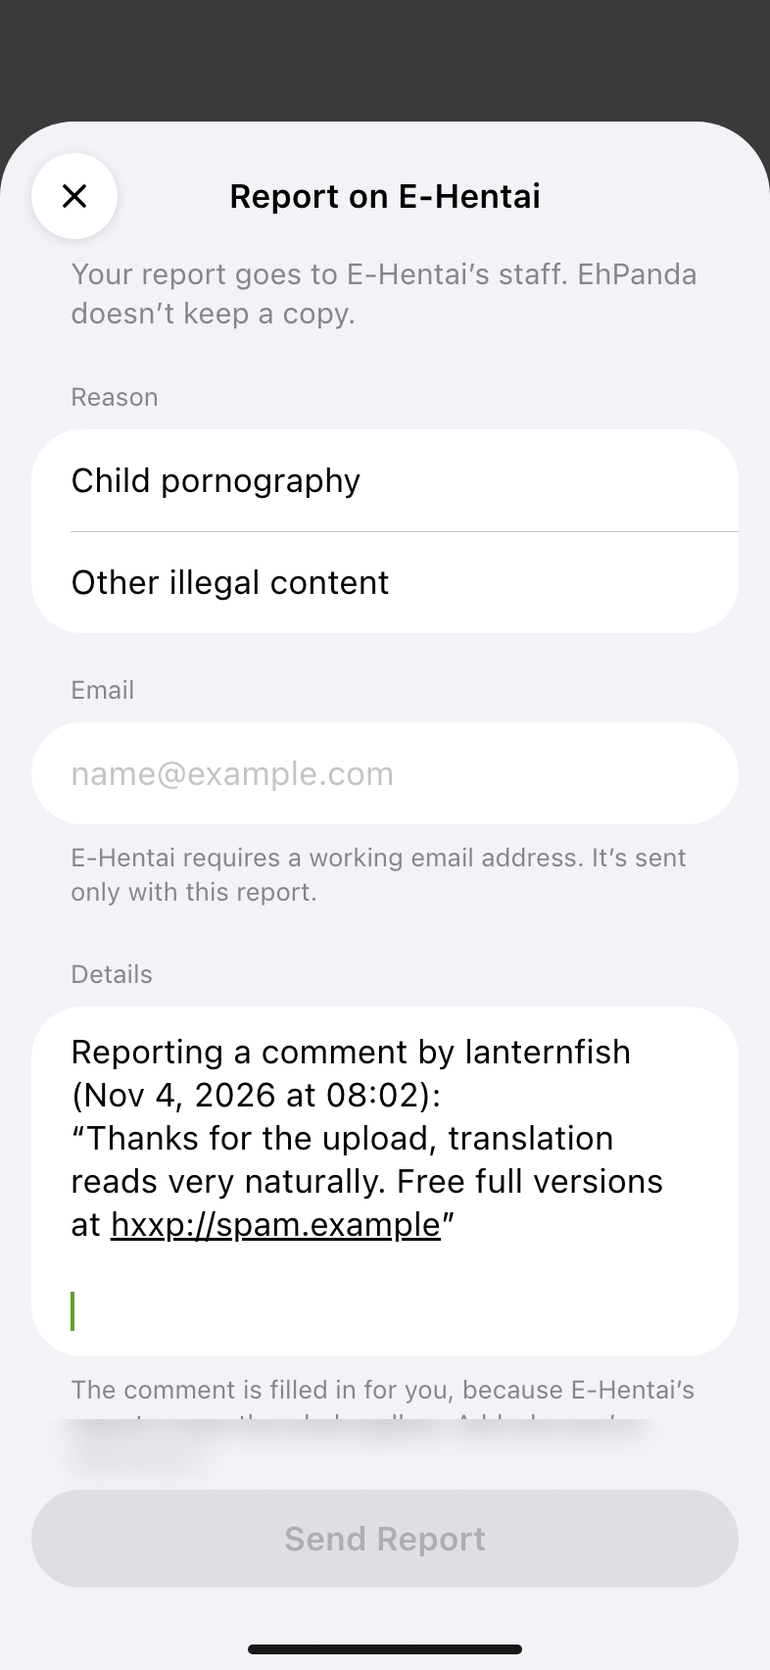
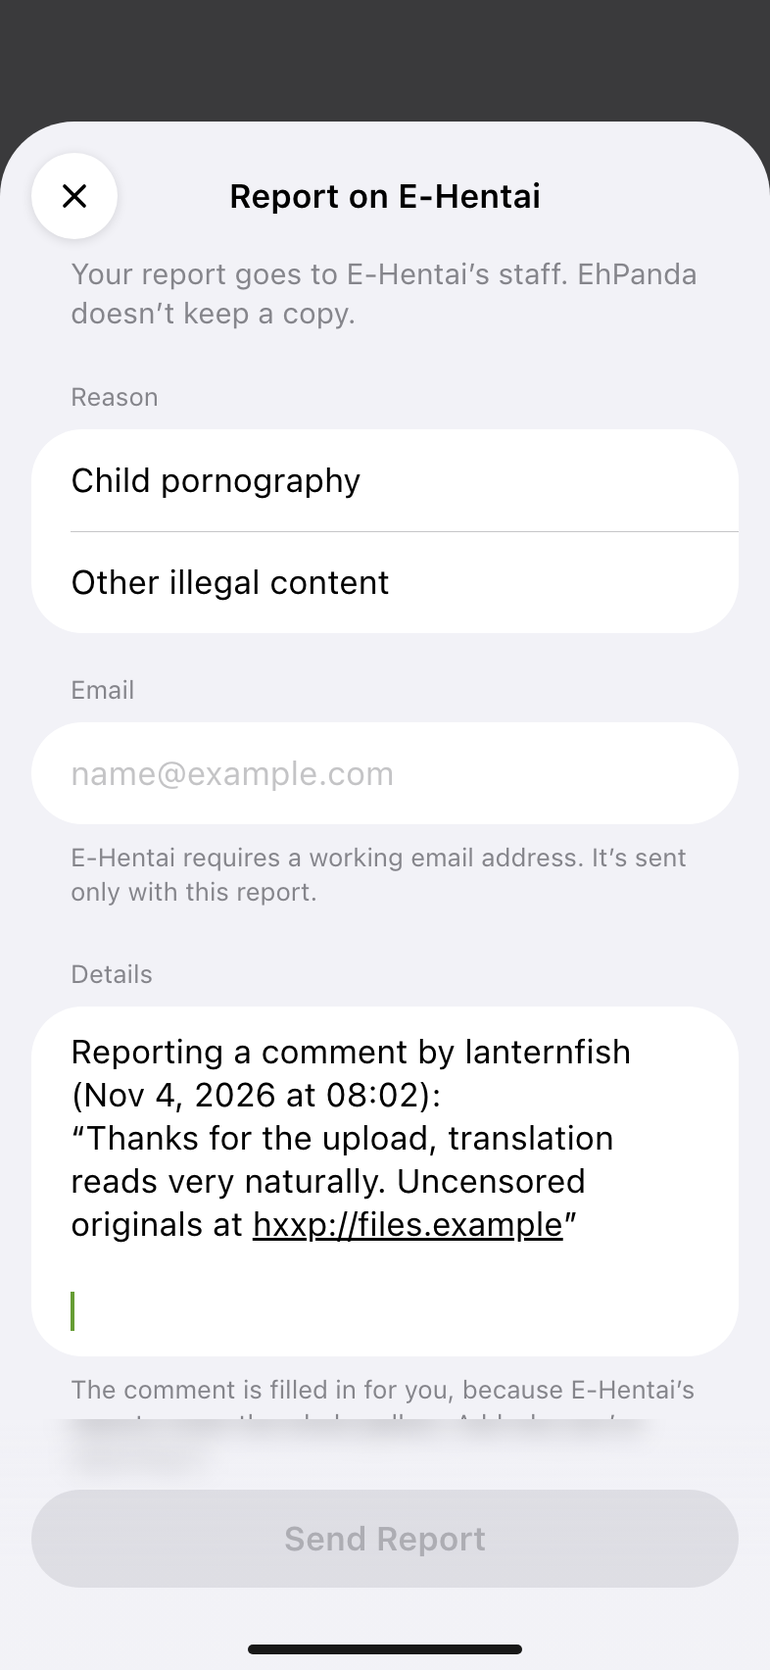
docs(18.1-04): complete the Report form view and UI tests plan
- 18.1-04-SUMMARY.md: eight task commits; DetailFeatureTests + UITestStubTests 181
  passed on both devices; the three UI classes pass on phone (45 + 2 skipped) and pad
  (46 + 1 skipped) with no retries; lint 0; both copy checks pass; the frame table for
  25-31, 33 and 34; deviations (slowLoad 6 s, holdSend 10 s, the frame-check view
  fixes, Command-Return in the iPad test, scroll to the linked comment at AX5)
- Mockups 25, 26, 27, 29 and 34: the refreshed frames with the illegal-content wording
- STATE: plan 4 of 5 done, metric and decision recorded, the frame 26 item resolved
- ROADMAP: 18.1 at 4/5, 18.1-04 checked
- UGC-18-01 is shared by all 18.1 plans, so REQUIREMENTS.md is unchanged

Changed region(s): [[0.0916, 0.6843, 0.855, 0.7465]]

diff --git a/.planning/phases/18.1-native-report-form/18.1-04-SUMMARY.md b/.planning/phases/18.1-native-report-form/18.1-04-SUMMARY.md
@@ -1,0 +1,236 @@
+---
+phase: 18.1-native-report-form
+plan: "04"
+subsystem: moderation-report-form-ui
+tags: [report, swiftui, sheet, liquid-glass, ui-tests, stubs, moderation]
+
+requires:
+  - "18.1-01 (ReportForm, the report URLs, the one-attempt send request)"
+  - "18.1-02 (the 22 report.* symbols)"
+  - "18.1-03 (ReportFormFeature, ReportFormClient, ReportPrefill, the .reportForm destinations)"
+provides:
+  - "`ReportFormView`: the C-13 sheet in its loading, ready, sending, sent, failed and unavailable states, presented from Comments and Detail"
+  - "`EHPANDA_UITEST_REPORT_SCENARIO` (ready, slowLoad, holdSend, failSend, unavailable), read only in DEBUG stubbed launches, with the ReportOther, ReportUnavailable and ReportSentStub fixtures"
+  - "`ReportFormUITests`: one UI test per C-13 state (frames 25–31, 33, 34), plus the strip entry and an accessibility audit"
+  - "`comment.report.confirm_title` / `_body` retired from the catalog and listed as retired in `18-copy-check.py`"
+affects: [18.1-05, 19]
+
+actuals:
+  tasks: 3
+  commits: 8
+
+tech-stack:
+  added: []
+  patterns:
+    - "Presenting the Report form sends its `.task` action from the presenting reducer, so the load starts without a view lifecycle hook and reducer tests see it"
+    - "A stub scenario picked by one launch key, read only when the network is stubbed and only in DEBUG, routes report queries before the gallery branch"
+    - "UI tests read a request log to prove what was posted (one POST, a second on Retry, none on an invalid email or ⌘↩ while not ready)"
+
+key-files:
+  created:
+    - AppPackage/Sources/DetailFeature/Moderation/ReportFormView.swift
+    - EhPandaUITests/ReportFormUITests.swift
+    - EhPandaUITests/Fixtures/ReportOther.html
+    - EhPandaUITests/Fixtures/ReportUnavailable.html
+    - EhPandaUITests/Fixtures/ReportSentStub.html
+  modified:
+    - AppPackage/Sources/DetailFeature/Comments/CommentsReducer.swift
+    - AppPackage/Sources/DetailFeature/Comments/CommentsView.swift
+    - AppPackage/Sources/DetailFeature/DetailReducer.swift
+    - AppPackage/Sources/DetailFeature/DetailReducer+Actions.swift
+    - AppPackage/Sources/DetailFeature/DetailView.swift
+    - AppPackage/Sources/DetailFeature/Resources/Localizable.xcstrings
+    - .planning/phases/18-in-app-3-0-readiness-age-wall-analytics-choice-comment-moder/18-copy-check.py
+    - AppPackage/Sources/AppFeature/UITestSupport/UITestStubURLProtocol.swift
+    - AppPackage/Sources/AppFeature/UITestSupport/UITestAutomation.swift
+    - AppPackage/Tests/AppFeatureTests/UITestStubTests.swift
+    - AppPackage/Tests/DetailFeatureTests/CommentModerationReducerTests.swift
+    - AppPackage/Tests/DetailFeatureTests/CommentsReducerTests.swift
+    - EhPandaUITests/Support/UITestConstants.swift
+    - EhPandaUITests/CommentModerationUITests.swift
+    - EhPandaUITests/AccessibilityAuditUITests.swift
+
+key-decisions:
+  - "The sheet is a `NavigationStack` with only the leading `Button(role: .close)` and the inline `comment.report` title. `.interactiveDismissDisabled` follows `isDismissLocked`. On iPhone it uses the large detent, on iPad the system form sheet"
+  - "The pinned bar is built like the first-launch gate's: `.safeAreaBar(edge: .bottom)` holding one `.glassProminent` `.controlSize(.large)` button, with no background, material or divider (grep 0). The form and the centred states set `.scrollEdgeEffectStyle(.soft, for: [.top, .bottom])`, following the app's scroll-edge policy, with the bottom edge under the bar"
+  - "The button's label follows the phase: Send Report, the spinner plus Sending…, Done, or Open Report Page. Labels swap with no animation. `.keyboardShortcut(.return, modifiers: .command)` is on the button, so ⌘↩ acts only when it is enabled"
+  - "The failed alert is built locally from the reducer's alert state, so Retry can be the default button (C-13 Failed) while the reducer keeps the Retry, Open Report Page, Cancel order"
+  - "Open Report Page presents the existing `ReportPageSheet` over the kept form (P-7). Both screens' `reportPage(URL)` destinations and their sheets are gone"
+  - "The slowLoad stub holds the form's GET for 6 s, holdSend holds the POST, failSend answers the POST with an error page, unavailable serves a page without `#reportform`, and ready serves ReportOther and then the ReportSentStub stand-in after the POST. No stub reaches e-hentai.org or exhentai.org"
+
+patterns-established:
+  - "18.1-05 runs the phase gate on both devices and in Release, then the agent-run Proxyman live check"
+
+requirements-completed: [UGC-18-01]
+
+coverage:
+  - id: T1
+    description: "ReportFormView, presentation and the retired keys"
+    verification:
+      - kind: automated
+        ref: "DetailFeatureTests + UITestStubTests: 181 passed (151 + 30) on $PHONE and on $PAD at 915a24551; UITestStubTests 30 passed on $PAD at 89afb95fe"
+        status: pass
+      - kind: script
+        ref: "soft scroll-edge count 2; .background|Material|Divider( 0; retired confirm keys in the catalog 0; 18-copy-check --self-test 22/22, 18-copy-check exit 0, 18.1-copy-check exit 0; SwiftLint 0.65.1 --strict 0 violations"
+        status: pass
+    human_judgment: false
+  - id: T2
+    description: "UI-test stubs for the Report form"
+    verification:
+      - kind: automated
+        ref: "UITestStubTests 30 passed on both devices (inside the 181), and again on $PAD after the holdSend change"
+        status: pass
+    human_judgment: false
+  - id: T3
+    description: "A UI test per C-13 state, the strip entry and the audit, compared against the frames"
+    verification:
+      - kind: automated
+        ref: "ReportFormUITests + CommentModerationUITests + AccessibilityAuditUITests at a1afdc81c: $PHONE 47 tests, 45 passed, 2 skipped (iPad-only); $PAD 47 tests, 46 passed, 1 skipped (iPhone-only AX5); no retries"
+        status: pass
+      - kind: script
+        ref: "galleryOrigin|copyright|excupd|dmca|report_reason_revert grep 0; SwiftLint 0 violations in 152 files"
+        status: pass
+      - kind: manual
+        ref: "frame comparison table below (screenshots exported from the xcresults)"
+        status: pass
+    human_judgment: false
+
+duration: several sessions (2026-11-06 02:26Z to 2026-11-06 19:25Z)
+completed: 2026-11-06
+status: complete
+---
+# Phase 18.1 Plan 04: Report form view and UI tests Summary
+
+**Report on a comment now opens EhPanda's own Report form, drawn per UI-SPEC C-13 on iPhone and iPad. It shows two
+illegal-content reasons, an email that is never stored, the English prefill and the pinned Send Report button, and it
+falls back to the site's page. Each of the nine C-13 states has a UI test on stubbed network, and the screenshots were
+checked against frames 25–31, 33 and 34.**
+
+## Accomplishments
+
+- **The sheet (Task 1, `a76819797`, fixed in `a6bf20b40`):**
+  - `ReportFormView` follows C-13 section by section: intro, Reason (two rows with a trailing accent checkmark and
+    `.isSelected`), Email with its keyboard modifiers and the red invalid footer with an announcement, Details with
+    `.lineLimit(5...)` and the footers that depend on the reason.
+  - Loading appears after 0.3 s. Unavailable is a `ContentUnavailableView` with no actions inside it. Sent shows the
+    64pt checkmark with a bounce (none under Reduce Motion), a success haptic and VoiceOver focus on the title, with
+    no Close or title. Failed is an alert over the kept form.
+  - Accessibility identifiers: `report_form`, `report_reason_<raw>`, `report_email`, `report_details`,
+    `report_primary_button`, `report_loading`, `report_unavailable`, `report_sent`, `report_illegal_warning`.
+  - CommentsView and DetailView present `.reportForm` as a sheet. The `reportPage(URL)` cases and sheets are gone.
+    The form presents `ReportPageSheet` itself.
+  - Catalog: `comment.report.confirm_title` and `_body` are removed. `18-copy-check.py` lists them as retired: a key
+    that is absent passes, a key that is present is a finding. A self-test case covers this (22/22 cases).
+- **Stubs (Task 2, `b031af23b`, fixed in `eac764df7` and `89afb95fe`):** `EHPANDA_UITEST_REPORT_SCENARIO` is read only in DEBUG and only
+  when the network is stubbed. Any other launch, or an unknown value, gets `ready`. Report queries are routed before
+  the `/g/` branch (F-2). Three fixtures were added, and `UITestStubTests` covers the routing for each scenario.
+- **UI tests (Task 3, `25c6f1ad8`, fixed in `915a24551`, `89afb95fe` and `a1afdc81c`):** `ReportFormUITests` has nine tests, one per C-13 state.
+  Each one launches stubbed with a request log and attaches screenshots.
+  - `CommentModerationUITests` now expects the form to open directly from the comments list and from a Detail strip
+    card, with no alert.
+  - `AccessibilityAuditUITests.testReportFormAudit` audits the ready form.
+
+## Tests
+
+| Run | $PHONE | $PAD |
+|-----|--------|------|
+| FeatureTests: `DetailFeatureTests` + `AppFeatureTests/UITestStubTests` | 181 passed, 0 failed | 181 passed, 0 failed |
+| UITests: `ReportFormUITests` + `CommentModerationUITests` + `AccessibilityAuditUITests` (light), final at `a1afdc81c` | 47: 45 passed, 2 skipped (`testThePadFormSheetAndCommandReturn`, `testPadSettingAndDetailModalsAudit`, iPad only), no retries | 47: 46 passed, 1 skipped (`testTheLargestTextSizeKeepsTheButtonInReach`, iPhone only), no retries |
+| UITests, dark appearance: ready, typing, failed and unavailable (frames 26, 29, 30), at `915a24551` | 4 passed | — |
+| UITests, whole plan, at `915a24551` | 131: 110 passed, 21 skipped, 0 failed | 131: 112 passed, 18 skipped, 1 failed (`testSendingLocksTheSheet`, deviation 7; passes at `89afb95fe`) |
+| `UITestStubTests` after the holdSend change (`89afb95fe`) | — | 30 passed |
+| SwiftLint 0.65.1 `--strict --no-cache`, DetailFeature, AppFeature, their tests and EhPandaUITests | 0 violations in 152 files | |
+| Copy checks | `18-copy-check.py --self-test` 22/22; `18-copy-check.py` 36 keys × 6 locales, 60 retired texts absent; `18.1-copy-check.py` 22 keys × 6 locales | |
+| Plan greps | soft scroll-edge 2; bar background/material/divider 0; retired confirm keys 0; gallery/copyright 0 | |
+
+The first pad run of the three classes failed `testThePadFormSheetAndCommandReturn`, because ⌘↩ never reached the
+button (see deviation 3). After `915a24551` the pad run passed. The whole-plan runs found two timing failures in this
+plan's tests: the pad sending test (deviation 7) and, in a later phone class run, the AX5 test (deviation 8). Both
+are fixed, and the three classes then passed on both devices with no retries. The whole plan was not run again
+after those two test-only fixes. 18.1-05's gate runs it on both devices. The known pad flake
+(`ReaderRebuildUITests`) did not fail. The dark run switched the phone simulator to dark and
+then back to light. No simulator was erased.
+
+No request was made to e-hentai.org or exhentai.org. Every UI test launches with the stubbed network, and the request
+log shows exactly one POST per send (two after Retry), to `/g/3103480/0000000000/`.
+
+## Frame Comparison (UI-SPEC C-13)
+
+The screenshots were exported from the xcresults, phone `FFE7E686` and pad `B470DB46`. Differences that apply to every
+frame:
+
+- The fixture data is the stub's: a Chinese comment, the UTC date from `ReportPrefill`, and `tester@example.com`.
+- The status bar is the simulator's.
+- The section headers (Reason, Email, Details) use the OS 27 system header style, which is larger and semibold. The
+  frames draw small regular headers. C-13 names the system section header, not a font, and the text wins.
+- Apostrophes are straight, as in the approved catalog strings that both copy checks verify. The frames draw curly
+  ones.
+
+| Frame | State | Screenshot | Result | Note |
+|-------|-------|------------|--------|------|
+| 25 | Ready, light | `report-25-ready` (phone light and dark; pad) | match | Close only, inline "Report on E-Hentai", two unpicked reasons, empty email, the prefill, dimmed Send Report on the bar with no background |
+| 26 | Typing, dark | `report-26-typing`, `report-26-invalid-email` (phone dark) | match | Other illegal content picked with an accent checkmark and rows in primary text (fixed in `a6bf20b40`). Shows the warning footer, the Details text "The linked page hosts illegal content." and the illegal-content help above the comment footer. The invalid shot shows the red footer with `exclamationmark.circle`. The frame is scrolled with the keyboard up; the test shot is at the top |
+| 27 | Sending, light | `report-27-sending` (phone, pad) | match | Spinner at regular size on the label's line plus "Sending…" (fixed in `a6bf20b40`). The form and Close are dimmed and a swipe keeps the sheet |
+| 28 | Sent, light | `report-28-sent` (phone, pad) | match | 64pt accent checkmark, "Report Sent", body, Done. No Close or title |
+| 29 | Failed, dark | `report-29-failed`, `report-29-site-page` (phone dark) | match | Alert over the kept form: Retry (default, fixed in `a6bf20b40`), Open Report Page, Cancel. Send Report stays live under it. The site page opens over the form |
+| 30 | Unavailable, dark | `report-30-unavailable` (phone dark) | match | Triangle, title and body with no actions inside. The bar reads Open Report Page |
+| 31 | Loading, light | `report-31-loading` (phone, pad) | match | Centred spinner over "Loading the report form…", Close, dimmed Send Report |
+| 33 | Largest text (AX5), iPhone | `report-33-ax5` (phone) | match | Intro, Reason and rows wrap. The button grows (≥ 50pt) and stays hittable. Close keeps the system size. In the test no reason is picked, so the button is dimmed; the frame draws it enabled. That is a state difference, not a layout one |
+| 34 | iPad form sheet, light | `report-34-ipad-ready`, `report-34-ipad` (pad) | match | Form sheet, not full screen, with the bar at the sheet's bottom. ⌘↩ sends when the form is ready (one POST) and sends nothing before |
+
+Frame 32 is withdrawn and has no test. The refreshed frames 25, 26, 27, 29 and 34 were found uncommitted in the
+working tree with the illegal-content Details wording. They are committed with this summary. With them, the earlier
+open item ("frame 26 shows a leftover 'Spam:'") no longer applies.
+
+## Deviations from Plan
+
+1. **[Rule 1] slowLoad holds for 6 s, not 2 s (`eac764df7`).** The spinner appears after 0.3 s, but the test can read
+   it only once the sheet is up, about 3 s after the comment's menu. With a 2 s hold the form finished loading first.
+2. **[Rules 1/2] View fixes from the frame check (`a6bf20b40`).**
+   - Reason rows were drawn in the tint; they now use primary text.
+   - The intro was faded twice inside the header.
+   - Retry was not the alert's default button.
+   - The sending spinner was small.
+   - The top scroll edge was missing.
+   All were fixed in the view. None is recorded as an accepted difference.
+3. **[Rule 1] ⌘↩ in the iPad test (`915a24551`).** On the iPad simulator, `typeKey(.return, modifierFlags: .command)`
+   never reached the button's shortcut, while `"\n"` with Command did. Probes showed that ⌘A and plain keys arrive.
+   Only the test changed; the view's `.keyboardShortcut(.return, modifiers: .command)` stays.
+4. **Test Details text.** The typed Details line is "The linked page hosts illegal content.", matching the refreshed
+   frames' illegal-content wording rather than a spam reason, which C-13 excludes.
+5. **[Rule 3] Files outside the plan's list.**
+   - `DetailReducer+Actions.swift`: Detail's present-the-form branch now sends the form's `.task`, as Comments does.
+   - `CommentModerationReducerTests.swift` and `CommentsReducerTests.swift`: the existing destination tests receive
+     that load.
+   - `EhPandaUITests/Support/UITestConstants.swift` (listed) holds the scenario key.
+6. **The refreshed mockups 25, 26, 27, 29 and 34** are in the docs commit. See the frame comparison.
+7. **[Rule 1] holdSend holds for 10 s, not 3 s (`89afb95fe`).** In the full pad run, `testSendingLocksTheSheet` failed
+   with "A swipe down closed the sheet". The activity log showed the swipe 3.7 s after the tap. The 3 s hold had
+   already ended, so the sheet was in Sent, where a swipe correctly dismisses it. The test now waits up to 20 s for
+   Sent.
+8. **[Rule 1] The UI tests scroll to the linked comment when the link stops short (`a1afdc81c`).** In one phone class
+   run, `testTheLargestTextSizeKeepsTheButtonInReach` failed all three attempts with "EhPanda did not present
+   comment_cell_6894060". The hierarchy showed the comments list at its first three comments: at AX5 the link's
+   `scrollTo` had not reached the comment. Run alone, the test passed. `openReportForm` now waits 15 s as before,
+   then swipes the list up (at most 8 times) until the row exists. The app's link scroll is Phase 18 code and is
+   unchanged. It is recorded below as an open item.
+
+## Open Items (non-blocking, for the lead)
+
+- **A comment link at AX5 sometimes stops short of its comment.** `CommentsView`'s
+  `proxy.scrollTo(scrollCommentID, anchor: .top)` left the list at the top in one run (three attempts in a row) and
+  worked in four others. This was seen only at the largest text size, where rows reach 1,000pt. It is not part of
+  this plan; the UI tests now scroll as a reader would.
+
+## Decisions
+
+See `key-decisions` above.
+
+## Self-Check
+
+- Commits `a76819797`, `b031af23b`, `eac764df7`, `a6bf20b40`, `25c6f1ad8`, `915a24551`, `89afb95fe` and `a1afdc81c`
+  are signed (`G`) and dated `+08:00` twice.
+- `report.reason.choose` remains approved but unused (C-13 has no picker). This is unchanged and carried in STATE.
+- UGC-18-01 is shared by all five 18.1 plans, so REQUIREMENTS.md is unchanged.
+
+Ready for 18.1-05.

diff --git a/.planning/STATE.md b/.planning/STATE.md
@@ -4,16 +4,16 @@ milestone: v3.0.0
 current_phase: "18.1"
 current_phase_name: Native report form
 status: executing
-stopped_at: Completed 18.1-03-PLAN.md
-last_updated: "2026-11-06T02:24:00.000Z"
+stopped_at: Completed 18.1-04-PLAN.md
+last_updated: "2026-11-06T19:25:00.000Z"
 last_activity: 2026-11-06
-last_activity_desc: Plan 18.1-03 complete (ReportFormFeature, its client and prefill; Report opens the form from both screens)
-state_head: f7a389135c08559adbc1c1c5164a8add1610aa65
+last_activity_desc: Plan 18.1-04 complete (the Report form sheet per C-13, its UI-test stubs and a UI test per state on iPhone and iPad)
+state_head: a1afdc81c0f376cbc0a3a3ff8efb9673b798f192
 progress:
   total_phases: 21
   completed_phases: 17
   total_plans: 304
-  completed_plans: 302
+  completed_plans: 303
   percent: 81
 milestone_name: Dependency Reduction & Modernization
 source_head: 891103afa
@@ -36,9 +36,9 @@ mockups (01–04, 16–18 and 20 re-rendered; 25–31, 33 and 34 added; 32 withd
 - **Plans:** Wave 1: 18.1-01 (parser, report URL, requests), 18.1-02 (23 strings, copy check). Wave 2: 18.1-03
   (reducer, routing). Wave 3: 18.1-04 (view, stubs, a UI test per C-13 state). Wave 4: 18.1-05 (gate, then the
   agent-run Proxyman live check, the phase's only checkpoint).
-- **Open, non-blocking:** what the site returns after a real report (Research OQ-1, default DD-03); frame 26 shows a
-  leftover "Spam:" in Details (for Colo through the lead); `report.reason.choose` is approved but unused by C-13 (for
-  the lead).
+- **Open, non-blocking:** what the site returns after a real report (Research OQ-1, default DD-03); frame 26 showed a
+  leftover "Spam:" in Details (resolved: the refreshed frames, committed with 18.1-04, use the illegal-content
+  wording); `report.reason.choose` is approved but unused by C-13 (for the lead).
 
 Next: `/gsd-execute-phase 18.1`.
 
@@ -1031,6 +1031,7 @@ Phase 18 verification passed 10/10 on 2026-11-05 at `a1f96cb88` (tested source `
 | Phase 18.1 P01 | 20 min | 2 tasks | 11 files |
 | Phase 18.1 P02 | 25 min | 1 tasks | 3 files |
 | Phase 18.1 P03 | 25 min | 2 tasks | 11 files |
+| Phase 18.1 P04 | several sessions | 3 tasks | 20 files |
 
 ## Accumulated Context
 
@@ -1607,6 +1608,7 @@ Recent decisions affecting current work:
 - [Phase 18.1]: 18.1-01: the report POST is sent once (attempts: 1) to the gallery's ?report=<type> URL, never the page's form action; a reply is sent only when it is not a site error page and no longer shows #reportform. The form GET keeps the default retries. — Research F-1 and DD-02/DD-03: a retried POST can file duplicate reports, a page's action could point elsewhere, and an error page has no #reportform.
 - [Phase 18.1]: 18.1-02: 22 report.* keys ship in DetailFeature's catalog in six languages, verbatim from 18.1-COPY-REPORT-FORM.md; report.reason.choose does not ship (lead, msgs 1980/1983: C-13 has no picker). 18.1-copy-check.py fails on a missing, reworded, empty or unapproved report.* key and on any of the six gallery-only keys or report.reason.choose. — 18.1-04 uses the generated symbols and retires comment.report.confirm_title/_body.
 - [Phase 18.1]: 18.1-03: Report on a foreign comment sends CommentModerationFeature.delegate(.openReportForm(ReportFormFeature.State)) and Comments/Detail present destination .reportForm; the confirm alert is gone. ReportFormFeature.State has a failable init (nil without a report target); phases loading/ready/sending/sent/unavailable, a failed send returns to ready with Retry / Open Report Page / Cancel; canSend needs a reason, a trimmed non-empty email and Details beyond the prefill; DD-05 email check on Send; isDismissLocked while sending or edited (not once sent); the email lives only in state. — 18.1-04 renders the form, presents .reportForm in both views, removes reportPage(URL) and the retired confirm keys, and updates CommentModerationUITests (its report case expects the old alert until then).
+- [Phase 18.1]: 18.1-04: ReportFormView renders every C-13 state in a NavigationStack sheet with only the leading Close, the inline "Report on {site}" title and a pinned .safeAreaBar .glassProminent button with no background (soft scroll edge top and bottom). Comments and Detail present .reportForm, and presenting sends the form's .task from the reducer. The failed alert is built in the view so Retry is the default, in the reducer's Retry / Open Report Page / Cancel order. Open Report Page presents ReportPageSheet over the kept form. reportPage(URL) and comment.report.confirm_title/_body are gone, and 18-copy-check.py lists the two keys as retired. EHPANDA_UITEST_REPORT_SCENARIO (ready, slowLoad 6 s, holdSend 10 s, failSend, unavailable) is DEBUG and stubbed-launch only. ReportFormUITests has one test per state (frames 25–31, 33, 34) and passes on both devices. — 18.1-05 runs the gate (whole UITests plan on both devices, Release scan for EHPANDA_), then the Proxyman live check. Open: at AX5 a comment link's scrollTo sometimes stops short of the comment (Phase 18 code; the tests now scroll to it).
 
 ### Phase 16 transition decisions (2026-09-23)
 
@@ -1723,8 +1725,8 @@ Items acknowledged and carried forward from previous milestone close:
 
 ## Session Continuity
 
-Last session: 2026-11-06T02:24:00.000Z
-Stopped at: Completed 18.1-03-PLAN.md
+Last session: 2026-11-06T19:25:00.000Z
+Stopped at: Completed 18.1-04-PLAN.md
 Resume file: None
 
 Earlier stop (2026-10-13T10:50:00Z, historical): 17-06 revision re-shot, 16/16 captured (`.capture/17-06-t-native-*`); superseded by the owner's 2026-11-02 approval of the 192-image website set.

diff --git a/.planning/ROADMAP.md b/.planning/ROADMAP.md
@@ -714,7 +714,7 @@ Phases execute in numeric order: 1 → 2 → 3 → 4 → 5 → 6 → 7 → 8 →
 | 16. Dynamic Type Accessibility | 26/26 | Complete    | 2026-09-23 |
 | 17. Screenshot Automation, Visual Regression & OS 27 Modernization | 13/13 | Complete    | 2026-11-05 |
 | 18. In-App 3.0 Readiness: Age Wall, Analytics Choice, Comment Moderation & Reader Rework | 12/12 | Complete    | 2026-11-06 |
-| 18.1. Native report form (INSERTED) | 3/5 | In Progress |  |
+| 18.1. Native report form (INSERTED) | 4/5 | In Progress |  |
 | 19. Visual Regression & Daily Live-Parsing Check | 0/TBD | Not started|  |
 | 20. 3.0 Distribution: Marketplace Build, Notarization, Listing & Release Checks | 0/TBD | Not started|  |
 
@@ -1444,7 +1444,7 @@ Plans:
   5. FeatureTests and a UI test for each C-13 state pass on iPhone and iPad; lint is clean; the Release product carries no UI-test key.
   6. An agent's live check on the real site, with Proxyman blocking the report POST, shows the form loaded and the request built correctly, with no report filed (owner msgs 1933, 1652).
 
-**Plans:** 3/5 plans executed
+**Plans:** 4/5 plans executed
 
 Plans:
 
@@ -1456,7 +1456,7 @@ Plans:
 - [x] 18.1-03-PLAN.md — `ReportFormFeature` reducer, client and English prefill; Report routed to the form from both screens
 
 **Wave 3** *(blocked on Wave 2 completion; UI tasks follow the committed UI-SPEC C-13)*
-- [ ] 18.1-04-PLAN.md — `ReportFormView` per C-13, the retired confirm keys, UI-test stubs and a UI test for each state
+- [x] 18.1-04-PLAN.md — `ReportFormView` per C-13, the retired confirm keys, UI-test stubs and a UI test for each state
 
 **Wave 4** *(blocked on Wave 3 completion)*
 - [ ] 18.1-05-PLAN.md — phase gate on both devices and in Release, then the agent-run Proxyman live check (the phase's only checkpoint)
